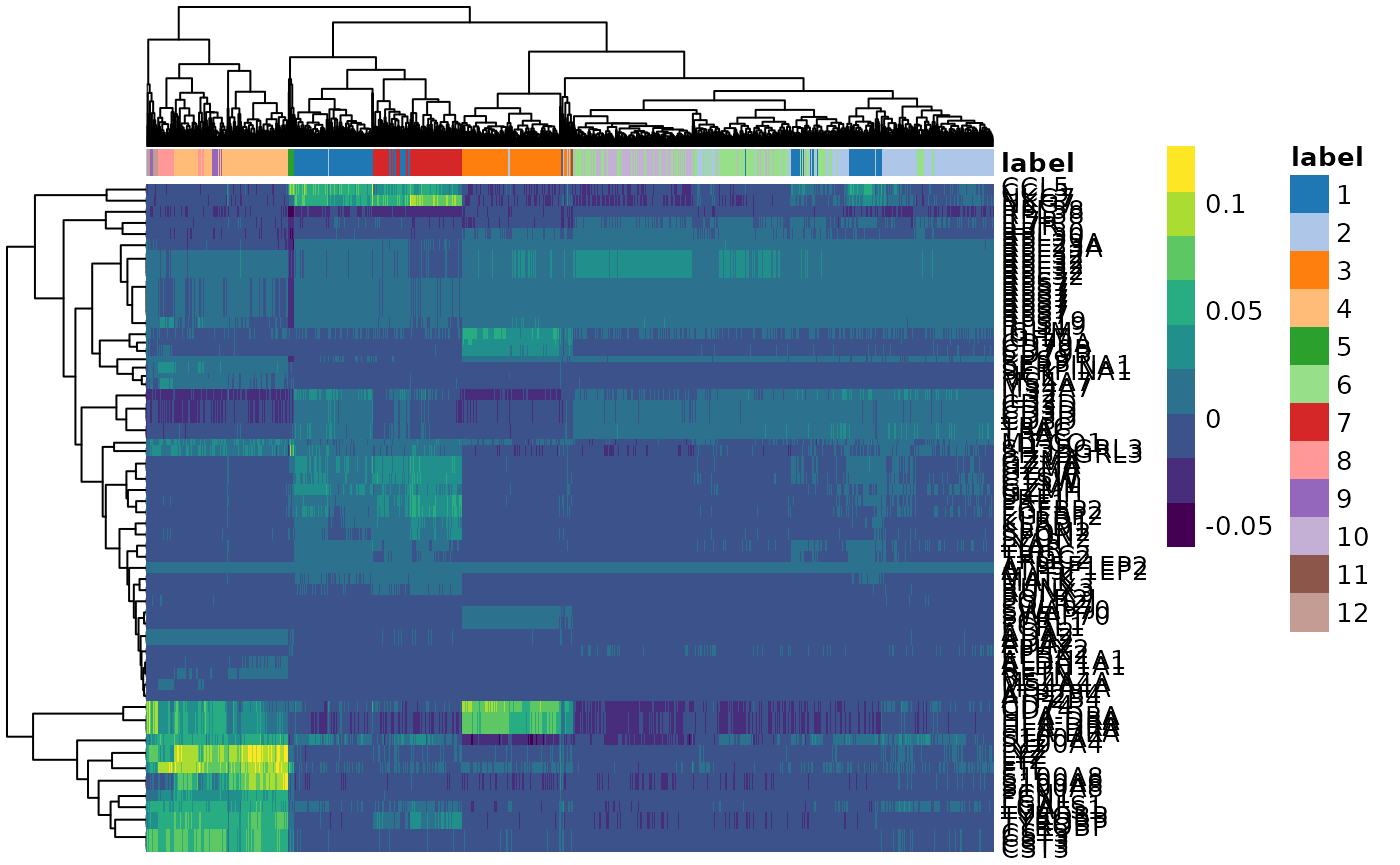
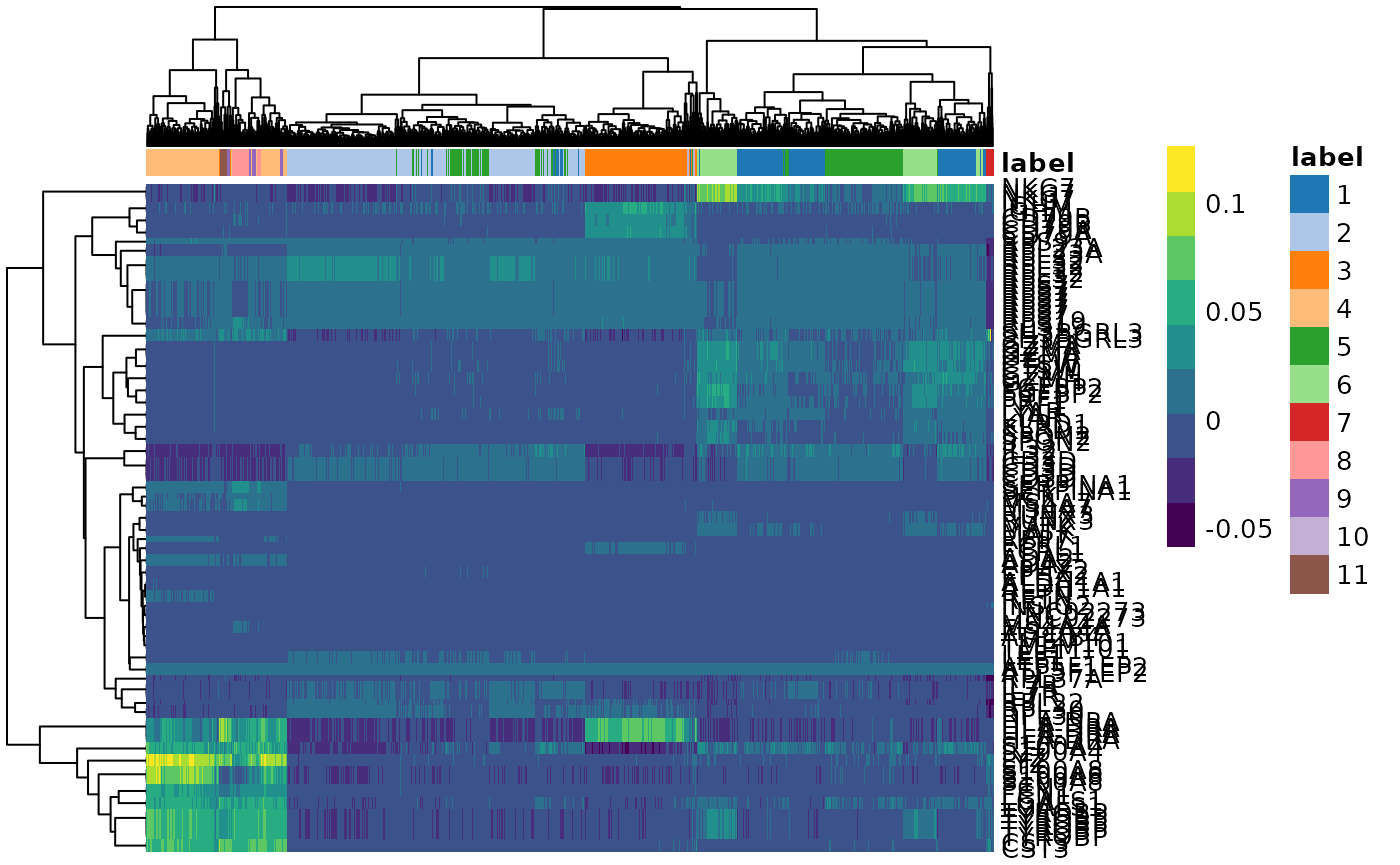
Deploying to gh-pages from  @ 49f070f1750935316fe01a08d94bfaefa396ba80 🚀

diff --git a/articles/tidytranscriptomics.html b/articles/tidytranscriptomics.html
@@ -103,15 +103,15 @@
 <div id="acknowledgements" class="section level3">
 <h3 class="hasAnchor">
 <a href="#acknowledgements" class="anchor"></a>Acknowledgements</h3>
-<p>Some of the material in Part 1 was adapted from an R for RNA sequencing workshop first run <a href="http://combine-australia.github.io/2016-05-11-RNAseq/">here</a>. Use of the airway dataset was inspired by the <a href="http://bioconductor.org/packages/devel/bioc/vignettes/DESeq2/inst/doc/DESeq2.html">DESeq2 vignette</a>.</p>
+<p>Some of the material in Part 1 was adapted from an R RNA sequencing workshop first run <a href="http://combine-australia.github.io/2016-05-11-RNAseq/">here</a>. The use of the airway dataset was inspired by the <a href="http://bioconductor.org/packages/devel/bioc/vignettes/DESeq2/inst/doc/DESeq2.html">DESeq2 vignette</a>.</p>
 </div>
 <div id="introduction" class="section level2">
 <h2 class="hasAnchor">
 <a href="#introduction" class="anchor"></a>Introduction</h2>
-<p>Measuring gene expression on a genome-wide scale has become common practice over the last two decades or so, with microarrays predominantly used pre-2008. With the advent of next generation sequencing technology in 2008, an increasing number of scientists use this technology to measure and understand changes in gene expression in often complex systems. As sequencing costs have decreased, using RNA sequencing to simultaneously measure the expression of tens of thousands of genes for multiple samples has never been easier. The cost of these experiments has now moved from generating the data to storing and analysing it.</p>
-<p>There are many steps involved in analysing an RNA sequencing dataset. Sequenced reads are aligned to a reference genome, then the number of reads mapped to each gene can be counted. This results in a table of counts, which is what we perform statistical analyses on in R. While mapping and counting are important and necessary tasks, today we will be starting from the count data and showing how differential expression analysis can be performed in a friendly way using the Bioconductor package, tidybulk.</p>
+<p>Measuring gene expression on a genome-wide scale has become common practice over the last two decades or so, with microarrays predominantly used pre-2008. With the advent of next-generation sequencing technology in 2008, an increasing number of scientists use this technology to measure and understand changes in gene expression in often complex systems. As sequencing costs have decreased, using RNA sequencing to simultaneously measure the expression of tens of thousands of genes for multiple samples has never been easier. The cost of these experiments has now moved from generating the data to storing and analysing it.</p>
+<p>There are many steps involved in analysing an RNA sequencing dataset. Sequenced reads are aligned to a reference genome, then the number of reads mapped to each gene can be counted. This results in a table of counts, which is what we perform statistical analyses on in R. While mapping and counting are important and necessary tasks, today, we will be starting from the count data and showing how differential expression analysis can be performed in a friendly way using the Bioconductor package, tidybulk.</p>
 <p>First, let’s load all the packages we will need to analyse the data.</p>
-<p><em>Note: you should load the <em>tidybulk</em> and <em>tidySummarizedExperiment</em> libraries after the tidyverse core packages for best integration.</em></p>
+<p><em>Note: you should load the tidybulk</em> and <em>tidySummarizedExperiment</em> libraries after the tidyverse core packages for best integration.</p>
 <div class="sourceCode" id="cb1"><pre class="downlit sourceCode r">
 <code class="sourceCode R"><span class="co"># dataset</span>
 <span class="kw"><a href="https://rdrr.io/r/base/library.html">library</a></span><span class="op">(</span><span class="va">airway</span><span class="op">)</span>
@@ -273,7 +273,7 @@
 <div id="setting-up-the-data" class="section level2">
 <h2 class="hasAnchor">
 <a href="#setting-up-the-data" class="anchor"></a>Setting up the data</h2>
-<p>We’ll set up the airway data for our RNA-seq analysis. We’ll create the column with shorter sample names and a column with gene symbols. We can get the gene symbols for these Ensembl gene ids using the Bioconductor annotation package for human, <code>org.Hs.eg.db</code>.</p>
+<p>We’ll set up the airway data for our RNA-seq analysis. We’ll create a column with shorter sample names and a column with gene symbols. We can get the gene symbols for these Ensembl gene ids using the Bioconductor annotation package for human, <code>org.Hs.eg.db</code>.</p>
 <div class="sourceCode" id="cb9"><pre class="downlit sourceCode r">
 <code class="sourceCode R"><span class="co"># setup data workflow</span>
 <span class="va">counts</span> <span class="op">&lt;-</span>
@@ -309,8 +309,8 @@
 <div id="filtering-lowly-transcribed-genes" class="section level2">
 <h2 class="hasAnchor">
 <a href="#filtering-lowly-transcribed-genes" class="anchor"></a>Filtering lowly transcribed genes</h2>
-<p>Genes with very low counts across all libraries provide little evidence for differential expression and they can interfere with some of the statistical approximations that are used later in the pipeline. They also add to the multiple testing burden when estimating false discovery rates, reducing power to detect differentially expressed genes. These genes should be filtered out prior to further analysis.</p>
-<p>We can perform the filtering using tidybulk <code>keep_abundant</code> or <code>identify_abundant</code>. These functions can use the <em>edgeR</em> <code>filterByExpr</code> function described in <span class="citation">(Law et al. 2016)</span> to automatically identify the genes with adequate abundance for differential expression testing. By default, this will keep genes with ~10 counts in a minimum number of samples, the number of the samples in the smallest group. In this dataset the smallest group size is four (as we have four dex-treated samples versus four untreated). Alternatively, we could use <code>identify_abundant</code> to identify which genes are abundant or not (TRUE/FALSE), rather than just keeping the abundant ones.</p>
+<p>Genes with very low counts across all libraries provide little evidence for differential expression and they can interfere with some of the statistical approximations that are used later in the pipeline. They also add to the multiple testing burden when estimating false discovery rates, reducing the power to detect differentially expressed genes. These genes should be filtered out prior to further analysis.</p>
+<p>We can perform the filtering using tidybulk <code>keep_abundant</code> or <code>identify_abundant</code>. These functions can use the <em>edgeR</em> <code>filterByExpr</code> function described in <span class="citation">(Law et al. 2016)</span> to automatically identify the genes with adequate abundance for differential expression testing. By default, this will keep genes with ~10 counts in a minimum number of samples, the number of the samples in the smallest group. In this dataset, the smallest group size is four (as we have four dex-treated samples versus four untreated). Alternatively, we could use <code>identify_abundant</code> to identify which genes are abundant or not (TRUE/FALSE), rather than just keeping the abundant ones.</p>
 <div class="sourceCode" id="cb10"><pre class="downlit sourceCode r">
 <code class="sourceCode R"><span class="co"># Filtering counts</span>
 <span class="va">counts_filtered</span> <span class="op">&lt;-</span> <span class="va">counts</span> <span class="op">%&gt;%</span> <span class="fu"><a href="https://rdrr.io/pkg/tidybulk/man/keep_abundant-methods.html">keep_abundant</a></span><span class="op">(</span>factor_of_interest <span class="op">=</span> <span class="va">dex</span><span class="op">)</span>
@@ -338,7 +338,7 @@
 <div id="scaling-counts-to-normalise" class="section level2">
 <h2 class="hasAnchor">
 <a href="#scaling-counts-to-normalise" class="anchor"></a>Scaling counts to normalise</h2>
-<p>Scaling of counts, normalisation, is performed to eliminate uninteresting differences between samples due to sequencing depth or composition. A more detailed explanation can be found <a href="https://hbctraining.github.io/DGE_workshop/lessons/02_DGE_count_normalization.html">here</a>. In the tidybulk package the function <code>scale_abundance</code> generates scaled counts, with scaling factors calculated on abundant (filtered) transcripts and applied to all transcripts. We can choose from different normalisation methods. Here we will use the default, edgeR’s trimmed mean of M values (TMM), <span class="citation">(Robinson and Oshlack 2010)</span>. TMM normalisation (and most scaling normalisation methods) scale relative to one sample.</p>
+<p>Scaling of counts (normalisation) is performed to eliminate uninteresting differences between samples due to sequencing depth or composition. A more detailed explanation can be found <a href="https://hbctraining.github.io/DGE_workshop/lessons/02_DGE_count_normalization.html">here</a>. In the tidybulk package, the function <code>scale_abundance</code> generates scaled counts, with scaling factors calculated on abundant (filtered) transcripts and applied to all transcripts. We can choose from different normalisation methods. Here we will use the default edgeR’s trimmed mean of M values (TMM), <span class="citation">(Robinson and Oshlack 2010)</span>. TMM normalisation (and most scaling normalisation methods) scale relative to one sample.</p>
 <div class="sourceCode" id="cb11"><pre class="downlit sourceCode r">
 <code class="sourceCode R"><span class="co"># Scaling counts</span>
 <span class="va">counts_scaled</span> <span class="op">&lt;-</span> <span class="va">counts_filtered</span> <span class="op">%&gt;%</span> <span class="fu"><a href="https://rdrr.io/pkg/tidybulk/man/scale_abundance-methods.html">scale_abundance</a></span><span class="op">(</span><span class="op">)</span>
@@ -363,8 +363,8 @@
 <span class="co">#&gt; #   Experiment &lt;fct&gt;, Sample &lt;fct&gt;, BioSample &lt;fct&gt;, sample_name &lt;chr&gt;,</span>
 <span class="co">#&gt; #   TMM &lt;dbl&gt;, multiplier &lt;dbl&gt;, symbol &lt;chr&gt;, .abundant &lt;lgl&gt;,</span>
 <span class="co">#&gt; #   coordinate &lt;list&gt;</span></code></pre></div>
-<p>After we run <code>scale_abundance</code> we should see some columns have been added at the end. The <code>counts_scaled</code> column contains the scaled counts.</p>
-<p>We can visualise the difference of abundance densities before and after scaling. As tidybulk output is compatible with tidyverse, we can simply pipe it into standard tidyverse functions such as <code>filter</code>, <code>pivot_longer</code> and <code>ggplot</code>. We can also take advantage of ggplot’s <code>facet_wrap</code> to easily create multiple plots.</p>
+<p>After we run, we should see some columns have been added at the end. The <code>counts_scaled</code> column contains the scaled counts.</p>
+<p>We can visualise the difference in abundance densities before and after scaling. As tidybulk output is compatible with tidyverse, we can simply pipe it into standard tidyverse functions such as <code>filter</code>, <code>pivot_longer</code> and <code>ggplot</code>. We can also take advantage of ggplot’s <code>facet_wrap</code> to easily create multiple plots.</p>
 <div class="sourceCode" id="cb12"><pre class="downlit sourceCode r">
 <code class="sourceCode R"><span class="va">counts_scaled</span> <span class="op">%&gt;%</span>
 
@@ -379,7 +379,7 @@
   <span class="va">custom_theme</span>
 <span class="co">#&gt; tidySummarizedExperiment says: A data frame is returned for independent data analysis.</span></code></pre></div>
 <p><img src="tidytranscriptomics_files/figure-html/unnamed-chunk-15-1.png" width="70%"></p>
-<p>In this dataset the distributions of the counts are not very different to each other before scaling but scaling does make the distributions more similar. If we saw a sample with a very different distribution we may need to investigate it.</p>
+<p>In this dataset, the distributions of the counts are not very different to each other before scaling, but scaling does make the distributions more similar. If we saw a sample with a very different distribution, we may need to investigate it.</p>
 <p>As tidybulk smoothly integrates with ggplot2 and other tidyverse packages it can save on typing and make plots easier to generate. Compare the code for creating density plots with tidybulk versus standard base R below (standard code adapted from <span class="citation">(Law et al. 2016)</span>).</p>
 <p><strong>tidybulk</strong></p>
 <div class="sourceCode" id="cb13"><pre class="downlit sourceCode r">
@@ -450,7 +450,7 @@
 <span class="co">#&gt; 1                  0.353     1</span>
 <span class="co">#&gt; 2                  0.312     2</span>
 <span class="co">#&gt; tidybulk says: to access the raw results do `attr(..., "internals")$PCA`</span></code></pre></div>
-<p>This joins the result to the counts object.</p>
+<p>This joins the result to the counts’ object.</p>
 <div class="sourceCode" id="cb16"><pre class="downlit sourceCode r">
 <code class="sourceCode R"><span class="co"># Take a look</span>
 <span class="va">counts_scal_PCA</span>
@@ -499,7 +499,7 @@
   <span class="fu"><a href="https://rdrr.io/pkg/ggrepel/man/geom_text_repel.html">geom_text_repel</a></span><span class="op">(</span><span class="fu"><a href="https://ggplot2.tidyverse.org/reference/aes.html">aes</a></span><span class="op">(</span>label <span class="op">=</span> <span class="va">sample_name</span><span class="op">)</span>, show.legend <span class="op">=</span> <span class="cn">FALSE</span><span class="op">)</span> <span class="op">+</span>
   <span class="va">custom_theme</span></code></pre></div>
 <p><img src="tidytranscriptomics_files/figure-html/unnamed-chunk-21-1.png" width="70%"></p>
-<p>The samples separate by treatment on PC1 which is what we hope to see. PC2 separates the N080611 cell line from the other samples, indicating a greater difference between that cell line and the others.</p>
+<p>The samples group by treatment on PC1 which is what we hope to see. PC2 separates the N080611 cell line from the other samples, indicating a greater difference between that cell line and the others.</p>
 </div>
 <div id="hierarchical-clustering-with-heatmaps" class="section level3">
 <h3 class="hasAnchor">
@@ -530,7 +530,7 @@
 <span class="co">#&gt; = .data@data %&gt;% : tidyHeatmap says: nested/list column are present in your data</span>
 <span class="co">#&gt; frame and have been dropped as their unicity cannot be identified by dplyr.</span></code></pre></div>
 <p><img src="tidytranscriptomics_files/figure-html/unnamed-chunk-22-1.png" width="70%"></p>
-<p>In the heatmap we can see the samples cluster into two groups, treated and untreated, for three of the cell lines, and the cell line (N080611) again is further away from the others.</p>
+<p>In the heatmap, we can see the samples cluster into two groups, treated and untreated, for three of the cell lines, and the cell line (N080611) again is further away from the others.</p>
 <p>Tidybulk enables a simplified way of generating a clustered heatmap of variable genes. Compare the code below for tidybulk versus a base R method.</p>
 <p><strong>base R using edgeR</strong></p>
 <div class="sourceCode" id="cb20"><pre class="downlit sourceCode r">
@@ -554,8 +554,8 @@
 <div id="differential-expression" class="section level2">
 <h2 class="hasAnchor">
 <a href="#differential-expression" class="anchor"></a>Differential expression</h2>
-<p><em>tidybulk</em> integrates several popular methods for differential transcript abundance testing: the edgeR quasi-likelihood <span class="citation">(Chen, Lun, and Smyth 2016)</span> (tidybulk default method), edgeR likelihood ratio <span class="citation">(McCarthy, Chen, and Smyth 2012)</span>, limma-voom <span class="citation">(Law et al. 2014)</span> and DESeq2 <span class="citation">(Love, Huber, and Anders 2014)</span>. A common question researchers have is which method to choose. With tidybulk we can easily run multiple methods and compare.</p>
-<p>We give <code>test_differential_abundance</code> our tidybulk counts object and a formula, specifying the column that contains our groups to be compared. If all our samples were from the same cell line, and there were no additional factors contributing variance such as batch differences, we could use the formula <code>~ dex</code>. However, each treated and untreated sample is from a different cell line so we add the cell line as an additional factor <code>~ dex + cell</code>.</p>
+<p><em>tidybulk</em> integrates several popular methods for differential transcript abundance testing: the edgeR quasi-likelihood <span class="citation">(Chen, Lun, and Smyth 2016)</span> (tidybulk default method), edgeR likelihood ratio <span class="citation">(McCarthy, Chen, and Smyth 2012)</span>, limma-voom <span class="citation">(Law et al. 2014)</span> and DESeq2 <span class="citation">(Love, Huber, and Anders 2014)</span>. A common question researchers have is which method to choose. With tidybulk, we can easily run multiple methods and compare.</p>
+<p>We give <code>test_differential_abundance</code> our tidybulk counts object and a formula, specifying the column that contains our groups to be compared. If all our samples were from the same cell line, and there were no additional factors contributing variance, such as batch differences, we could use the formula <code>~ dex</code>. However, each treated and untreated sample is from a different cell line, so we add the cell line as an additional factor <code>~ dex + cell</code>.</p>
 <div class="sourceCode" id="cb21"><pre class="downlit sourceCode r">
 <code class="sourceCode R"><span class="va">de_all</span> <span class="op">&lt;-</span>
 
@@ -664,7 +664,7 @@
 <div id="volcano-plots" class="section level2">
 <h2 class="hasAnchor">
 <a href="#volcano-plots" class="anchor"></a>Volcano plots</h2>
-<p>Volcano plots are a useful genome-wide plot for checking that the analysis looks good. Volcano plots enable us to visualise the significance of change (p-value) versus the fold change (logFC). Highly significant genes are towards the top of the plot. We can also colour significant genes e.g. genes with false-discovery rate &lt; 0.05. In order to decide which genes are differentially expressed, we usually take a cut-off of 0.05 on the FDR (or adjusted P value), NOT the raw p-value. This is because we are testing many genes (multiple testing), and the chances of finding differentially expressed genes is very high when you do that many tests. Hence we need to control the false discovery rate, which is the adjusted p-value column in the results table. What this means is that if 100 genes are significant at a 5% false discovery rate, we are willing to accept that 5 will be false positives.</p>
+<p>Volcano plots are a useful genome-wide tool for checking that the analysis looks good. Volcano plots enable us to visualise the significance of change (p-value) versus the fold change (logFC). Highly significant genes are towards the top of the plot. We can also colour significant genes, e.g. genes with false-discovery rate &lt; 0.05. To decide which genes are differentially expressed, we usually take a cut-off of 0.05 on the FDR (or adjusted P-value), NOT the raw p-value. This is because we are testing many genes (multiple testing), and the chances of finding differentially expressed genes are very high when you do that many tests. Hence we need to control the false discovery rate, the adjusted p-value column in the results table. That is, if 100 genes are significant at a 5% false discovery rate, we are willing to accept that 5 will be false positives.</p>
 <div class="sourceCode" id="cb25"><pre class="downlit sourceCode r">
 <code class="sourceCode R"><span class="co"># volcano plot, minimal</span>
 <span class="va">counts_de</span> <span class="op">%&gt;%</span>
@@ -772,7 +772,7 @@
 <h2 class="hasAnchor">
 <a href="#cell-type-composition-analysis" class="anchor"></a>Cell type composition analysis</h2>
 <p>If we are sequencing tissue samples, we may want to know what cell types are present and if there are differences in expression between them. <code>tidybulk</code> has a <code>deconvolve_cellularity</code> function that can help us do this.</p>
-<p>For this example we will use a subset of the breast cancer dataset from <a href="https://www.cancer.gov/tcga">The Cancer Genome Atlas (TCGA)</a>.</p>
+<p>For this example, we will use a subset of the breast cancer dataset from <a href="https://www.cancer.gov/tcga">The Cancer Genome Atlas (TCGA)</a>.</p>
 <div class="sourceCode" id="cb29"><pre class="downlit sourceCode r">
 <code class="sourceCode R"><span class="va">BRCA</span> <span class="op">&lt;-</span> <span class="fu">bioc2021tidytranscriptomics</span><span class="fu">::</span><span class="va"><a href="../reference/BRCA.html">BRCA</a></span> 
 <span class="va">BRCA</span>
@@ -874,15 +874,15 @@
 <li>
 <code>tidybulk</code> allows streamlined multi-method analyses</li>
 <li>
-<code>tidybulk</code> allow easy analyses of cell type composition</li>
+<code>tidybulk</code> allow easy analyses of cell-type composition</li>
 </ul>
 </div>
 </div>
 <div id="part-2-single-cell-rna-seq-with-tidysinglecellexperiment" class="section level1">
 <h1 class="hasAnchor">
 <a href="#part-2-single-cell-rna-seq-with-tidysinglecellexperiment" class="anchor"></a>Part 2 Single-cell RNA-seq with tidySingleCellExperiment</h1>
-<p>A typical scRNA-seq workflow is shown in <a href="https://stemangiola.github.io/bioc2021_tidytranscriptomics/articles/background.html#differences-between-bulk-and-single-cell-rna-sequencing-1">Background information</a>. We don’t have time in this workshop to go into depth on each step but you can read more about scRNA-seq workflows in the online book <a href="http://bioconductor.org/books/release/OSCA/index.html">Orchestrating Single-Cell Analysis with Bioconductor</a>.</p>
-<p>In Part 1 we showed how we can study the cell-type composition of a biological sample using bulk RNA sequencing. Single cell sequencing enables a more direct estimation of cell-type composition and gives greater resolution. For bulk RNA sequencing we need to infer the cell types using the abundance of transcripts in the whole sample, with single-cell RNA sequencing we can directly measure the transcripts in each cell and then classify the cells into cell types.</p>
+<p>A typical single-cell RNA sequencing workflow is shown in <a href="https://stemangiola.github.io/bioc2021_tidytranscriptomics/articles/background.html#differences-between-bulk-and-single-cell-rna-sequencing-1">Background information</a>. We don’t have time in this workshop to go into depth on each step, but you can read more about scRNA-seq workflows in the online book <a href="http://bioconductor.org/books/release/OSCA/index.html">Orchestrating Single-Cell Analysis with Bioconductor</a>.</p>
+<p>In Part 1, we showed how we can study the cell-type composition of a biological sample using bulk RNA sequencing. Single-cell sequencing enables a more direct estimation of cell-type composition and gives a greater resolution. For bulk RNA sequencing, we need to infer the cell types using the abundance of transcripts in the whole sample. With single-cell RNA sequencing, we can directly measure the transcripts in each cell and then classify the cells into cell types.</p>
 <div class="sourceCode" id="cb33"><pre class="downlit sourceCode r">
 <code class="sourceCode R"><span class="co"># load packages</span>
 <span class="kw"><a href="https://rdrr.io/r/base/library.html">library</a></span><span class="op">(</span><span class="va"><a href="https://ggplot2.tidyverse.org">ggplot2</a></span><span class="op">)</span>
@@ -900,9 +900,9 @@
 <div id="introduction-to-tidysinglecellexperiment" class="section level2">
 <h2 class="hasAnchor">
 <a href="#introduction-to-tidysinglecellexperiment" class="anchor"></a>Introduction to tidySingleCellExperiment</h2>
-<p>The single-cell RNA sequencing data used here is 3000 cells in total, subsetted from 20 samples from 10 peripheral blood mononuclear cell (pbmc) datasets. The datasets are from GSE115189/SRR7244582 <span class="citation">(Freytag et al. 2018)</span>, SRR11038995 [<span class="citation">Cai et al. (2020)</span>, SCP345 (singlecell.broadinstitute.org), SCP424 <span class="citation">(Ding et al. 2020)</span>, SCP591 <span class="citation">(Karagiannis et al. 2020)</span> and 10x-derived 6K and 8K datasets (support.10xgenomics.com/). The data is in <a href="https://www.bioconductor.org/packages/release/bioc/vignettes/SingleCellExperiment/inst/doc/intro.html">SingleCellExperiment</a> format. SingleCellExperiment is a very popular container of single cell RNA sequencing data.</p>
-<p>Similar to what we saw with tidySummarizedExperiment, <code>tidySingleCellExperiment</code> package enables any <em>SingleCellExperiment</em> object to be displayed and manipulated according to tidy data principles, without affecting any <em>SingleCellExperiment</em> behaviour.</p>
-<p>If we load the <em>tidySingleCellExperiment</em> package and then view the pbmc data it displays as a tibble.</p>
+<p>The single-cell RNA sequencing data used here is 3000 cells in total, subsetted from 20 samples from 10 peripheral blood mononuclear cell (PBMC) datasets. The datasets are from GSE115189/SRR7244582 <span class="citation">(Freytag et al. 2018)</span>, SRR11038995 [<span class="citation">Cai et al. (2020)</span>, SCP345 (singlecell.broadinstitute.org), SCP424 <span class="citation">(Ding et al. 2020)</span>, SCP591 <span class="citation">(Karagiannis et al. 2020)</span> and 10x-derived 6K and 8K datasets (support.10xgenomics.com/). The data is in <a href="https://www.bioconductor.org/packages/release/bioc/vignettes/SingleCellExperiment/inst/doc/intro.html">SingleCellExperiment</a> format. SingleCellExperiment is a very popular container of single-cell RNA sequencing data.</p>
+<p>Similar to what we saw with tidySummarizedExperiment, <code>tidySingleCellExperiment</code> package enables any <em>SingleCellExperiment</em> object to be displayed and manipulated according to tidy data principles without affecting any <em>SingleCellExperiment</em> behaviour.</p>
+<p>If we load the <em>tidySingleCellExperiment</em> package and then view the PBMC data, it displays as a tibble.</p>
 <div class="sourceCode" id="cb34"><pre class="downlit sourceCode r">
 <code class="sourceCode R"><span class="co"># load pbmc single cell RNA sequencing data</span>
 <span class="va">pbmc</span> <span class="op">&lt;-</span> <span class="fu">bioc2021tidytranscriptomics</span><span class="fu">::</span><span class="va"><a href="../reference/pbmc.html">pbmc</a></span>
@@ -933,7 +933,7 @@
 <div id="setting-up-the-data-1" class="section level2">
 <h2 class="hasAnchor">
 <a href="#setting-up-the-data-1" class="anchor"></a>Setting up the data</h2>
-<p>In this case we want to polish an annotation column. We will extract the sample, dataset and group information from the file name column into separate columns.</p>
+<p>In this case, we want to polish an annotation column. We will extract the sample, dataset and group information from the file name column into separate columns.</p>
 <div class="sourceCode" id="cb36"><pre class="downlit sourceCode r">
 <code class="sourceCode R"><span class="co"># First take a look at the file column</span>
 <span class="va">pbmc</span> <span class="op">%&gt;%</span> <span class="fu"><a href="https://rdrr.io/pkg/tidySingleCellExperiment/man/dplyr-methods.html">select</a></span><span class="op">(</span><span class="va">file</span><span class="op">)</span>
@@ -984,15 +984,15 @@
 <div id="quality-control" class="section level2">
 <h2 class="hasAnchor">
 <a href="#quality-control" class="anchor"></a>Quality control</h2>
-<p>A key quality control step performed in single cell analysis is assessment of the proportion of mitochondrial transcripts. A high mitochondrial count can indicate the cell is dead or dying and is thus poor quality and should be filtered out.</p>
+<p>A key quality control step performed in single-cell analyses is the assessment of the proportion of mitochondrial transcripts. A high mitochondrial count indicates cell death, and it is useful for filtering cells in a dying state.</p>
 <div id="nesting" class="section level3">
 <h3 class="hasAnchor">
 <a href="#nesting" class="anchor"></a>Nesting</h3>
-<p>A powerful tool tidySingleCellExperiment enables us to use with our single-cell data is tidyverse’s <a href="https://rstudio-education.github.io/tidyverse-cookbook/transform-tables.html#nest-a-data-frame">nest</a>. Nesting allows us to easily perform independent analyses on subsets of the data. For example, our data contains 10 single-cell datasets from different sources, we can nest by dataset and analyse the mitochondrial content for each.</p>
+<p>A powerful tool tidySingleCellExperiment enables us to use with our single-cell data is tidyverse’s <a href="https://rstudio-education.github.io/tidyverse-cookbook/transform-tables.html#nest-a-data-frame">nest</a>. Nesting allows us to perform independent analyses on subsets of the data easily. For example, our data contains 10 single-cell datasets from different sources; we can nest by dataset and analyse the mitochondrial content for each.</p>
 <p>To demonstrate the power of nesting we’ll first show the mitochondrial analysis for one of the 10 datasets.</p>
 <div class="sourceCode" id="cb38"><pre class="downlit sourceCode r">
 <code class="sourceCode R"><span class="va">one_dataset</span> <span class="op">&lt;-</span> <span class="va">pbmc</span> <span class="op">%&gt;%</span> <span class="fu"><a href="https://rdrr.io/pkg/tidySingleCellExperiment/man/dplyr-methods.html">filter</a></span><span class="op">(</span><span class="va">dataset</span> <span class="op">==</span><span class="st">"GSE115189"</span><span class="op">)</span></code></pre></div>
-<p>We get the chromosomal location for each gene in the dataset so we can identify the mitochondrial genes. We’ll get a warning that some of the ids don’t find a match but it should be just a small proportion.</p>
+<p>We get the chromosomal location for each gene in the dataset so we can identify the mitochondrial genes. We’ll get a warning that some of the ids don’t find a match, but it should be just a small proportion.</p>
 <div class="sourceCode" id="cb39"><pre class="downlit sourceCode r">
 <code class="sourceCode R"><span class="va">location</span> <span class="op">&lt;-</span> <span class="fu">mapIds</span><span class="op">(</span>
   <span class="va">EnsDb.Hsapiens.v86</span>,
@@ -1080,7 +1080,7 @@
 <span class="co">#&gt; #   sum &lt;dbl&gt;, detected &lt;int&gt;, subsets_Mito_sum &lt;dbl&gt;,</span>
 <span class="co">#&gt; #   subsets_Mito_detected &lt;int&gt;, subsets_Mito_percent &lt;dbl&gt;, total &lt;dbl&gt;,</span>
 <span class="co">#&gt; #   high_mitochondrion &lt;otlr.flt&gt;</span></code></pre></div>
-<p>The steps above perform the mitochondrial QC analysis for one dataset. To analyse all 10 datasets we could repeat the steps for each dataset or create a function and apply it to each dataset. However, a more efficient way is to use nesting. We can nest our data by dataset.</p>
+<p>The steps above perform the mitochondrial QC analysis for one dataset. To analyse all 10 datasets, we could repeat the steps for each dataset or create a function and apply it to each dataset. However, a more efficient way is to use nesting. We can nest our data by dataset.</p>
 <p><img src="../inst/vignettes/nesting.png" width="600px"></p>
 <div class="sourceCode" id="cb43"><pre class="downlit sourceCode r">
 <code class="sourceCode R"><span class="va">pbmc_nested</span> <span class="op">&lt;-</span> <span class="va">pbmc</span> <span class="op">%&gt;%</span> 
@@ -1212,7 +1212,7 @@
   <span class="fu"><a href="https://ggplot2.tidyverse.org/reference/theme.html">theme</a></span><span class="op">(</span>axis.text.x <span class="op">=</span> <span class="fu"><a href="https://ggplot2.tidyverse.org/reference/element.html">element_text</a></span><span class="op">(</span>angle <span class="op">=</span> <span class="fl">50</span>, hjust <span class="op">=</span> <span class="fl">1</span>, vjust <span class="op">=</span> <span class="fl">1</span><span class="op">)</span><span class="op">)</span>
 <span class="co">#&gt; tidySingleCellExperiment says: A data frame is returned for independent data analysis.</span></code></pre></div>
 <p><img src="tidytranscriptomics_files/figure-html/unnamed-chunk-51-1.png" width="700"></p>
-<p>In the faceted plot, detected is number of genes in each of the 10 datasets, sum is total counts.</p>
+<p>In the faceted plot, “detected” is the number of genes in each of the 10 datasets, “sum” is the total counts.</p>
 <p>We then proceed to filter out cells with high mitochondrial content.</p>
 <div class="sourceCode" id="cb48"><pre class="downlit sourceCode r">
 <code class="sourceCode R"><span class="va">pbmc</span> <span class="op">&lt;-</span> <span class="va">pbmc</span> <span class="op">%&gt;%</span> <span class="fu"><a href="https://rdrr.io/pkg/tidySingleCellExperiment/man/dplyr-methods.html">filter</a></span><span class="op">(</span><span class="op">!</span><span class="va">high_mitochondrion</span><span class="op">)</span></code></pre></div>
@@ -1258,36 +1258,35 @@
 <span class="co">#&gt; [90m# Features=51958 | Assays=reconstructed[39m</span>
 <span class="co">#&gt;    cell       label batch corrected1 corrected2 corrected3 corrected4 corrected5</span>
 <span class="co">#&gt;    &lt;chr&gt;      &lt;fct&gt; &lt;int&gt;      &lt;dbl&gt;      &lt;dbl&gt;      &lt;dbl&gt;      &lt;dbl&gt;      &lt;dbl&gt;</span>
-<span class="co">#&gt;  1 CCAGTCACA… 4         1    0.0643      0.334     -0.0725    -0.0560   -0.0739 </span>
-<span class="co">#&gt;  2 ATGAGCACA… 6         1    0.178      -0.0166    -0.122     -0.122     0.0233 </span>
-<span class="co">#&gt;  3 TATGAATGG… 7         1    0.0603      0.0357     0.127     -0.293     0.0128 </span>
-<span class="co">#&gt;  4 CATATAGAC… 12        1    0.0759      0.282     -0.121     -0.0545   -0.00286</span>
+<span class="co">#&gt;  1 CCAGTCACA… 4         1    0.0644      0.334     -0.0725    -0.0560   -0.0739 </span>
+<span class="co">#&gt;  2 ATGAGCACA… 2         1    0.178      -0.0167    -0.122     -0.122     0.0233 </span>
+<span class="co">#&gt;  3 TATGAATGG… 6         1    0.0603      0.0357     0.127     -0.293     0.0128 </span>
+<span class="co">#&gt;  4 CATATAGAC… 11        1    0.0760      0.282     -0.121     -0.0546   -0.00285</span>
 <span class="co">#&gt;  5 GAGGCAGAC… 1         1    0.0757      0.0424     0.0977    -0.259     0.0248 </span>
-<span class="co">#&gt;  6 AGCTGCCTT… 2         1    0.117       0.0242    -0.0729    -0.159     0.0170 </span>
-<span class="co">#&gt;  7 TGATTAGAT… 3         1    0.146       0.0752    -0.143     -0.0488    0.0915 </span>
+<span class="co">#&gt;  6 AGCTGCCTT… 5         1    0.117       0.0242    -0.0729    -0.159     0.0170 </span>
+<span class="co">#&gt;  7 TGATTAGAT… 3         1    0.146       0.0752    -0.143     -0.0488    0.0916 </span>
 <span class="co">#&gt;  8 ACGAAGCTC… 3         1    0.119       0.108     -0.127     -0.0505    0.0624 </span>
-<span class="co">#&gt;  9 CGGCATCTT… 4         1    0.00940     0.407     -0.0466    -0.0803   -0.0522 </span>
-<span class="co">#&gt; 10 ATAGCGTGC… 4         1    0.0561      0.367     -0.105     -0.0589   -0.0610 </span>
+<span class="co">#&gt;  9 CGGCATCTT… 4         1    0.00946     0.407     -0.0466    -0.0803   -0.0522 </span>
+<span class="co">#&gt; 10 ATAGCGTGC… 4         1    0.0561      0.367     -0.105     -0.0589   -0.0609 </span>
 <span class="co">#&gt; # … with 2,889 more rows</span></code></pre></div>
 <p>Thanks to tidySingleCellExperiment we can interrogate the object with tidyverse commands and use <code>count</code> to count the number of cells in each cluster.</p>
 <div class="sourceCode" id="cb51"><pre class="downlit sourceCode r">
 <code class="sourceCode R"><span class="va">pbmc</span> <span class="op">%&gt;%</span> <span class="fu"><a href="https://rdrr.io/pkg/tidySingleCellExperiment/man/count.html">count</a></span><span class="op">(</span><span class="va">label</span><span class="op">)</span>
 <span class="co">#&gt; tidySingleCellExperiment says: A data frame is returned for independent data analysis.</span>
-<span class="co">#&gt; # A tibble: 12 x 2</span>
+<span class="co">#&gt; # A tibble: 11 x 2</span>
 <span class="co">#&gt;    label     n</span>
 <span class="co">#&gt;    &lt;fct&gt; &lt;int&gt;</span>
-<span class="co">#&gt;  1 1       480</span>
-<span class="co">#&gt;  2 2       522</span>
-<span class="co">#&gt;  3 3       351</span>
+<span class="co">#&gt;  1 1       460</span>
+<span class="co">#&gt;  2 2       781</span>
+<span class="co">#&gt;  3 3       367</span>
 <span class="co">#&gt;  4 4       339</span>
-<span class="co">#&gt;  5 5        21</span>
-<span class="co">#&gt;  6 6       477</span>
-<span class="co">#&gt;  7 7       256</span>
+<span class="co">#&gt;  5 5       500</span>
+<span class="co">#&gt;  6 6       276</span>
+<span class="co">#&gt;  7 7        21</span>
 <span class="co">#&gt;  8 8        74</span>
 <span class="co">#&gt;  9 9        41</span>
-<span class="co">#&gt; 10 10      298</span>
-<span class="co">#&gt; 11 11       14</span>
-<span class="co">#&gt; 12 12       26</span></code></pre></div>
+<span class="co">#&gt; 10 10       14</span>
+<span class="co">#&gt; 11 11       26</span></code></pre></div>
 </div>
 <div id="reduce-dimensions" class="section level2">
 <h2 class="hasAnchor">
@@ -1368,21 +1367,20 @@
   <span class="fu"><a href="https://rdrr.io/pkg/tidySingleCellExperiment/man/dplyr-methods.html">select</a></span><span class="op">(</span><span class="va">label</span>, <span class="va">first.labels</span><span class="op">)</span>
 
 <span class="va">cell_type</span>
-<span class="co">#&gt; # A tibble: 12 x 2</span>
+<span class="co">#&gt; # A tibble: 11 x 2</span>
 <span class="co">#&gt;    label first.labels   </span>
 <span class="co">#&gt;    &lt;chr&gt; &lt;chr&gt;          </span>
 <span class="co">#&gt;  1 1     NK cells       </span>
-<span class="co">#&gt;  2 2     Fibroblasts    </span>
+<span class="co">#&gt;  2 2     Skeletal muscle</span>
 <span class="co">#&gt;  3 3     B-cells        </span>
 <span class="co">#&gt;  4 4     Monocytes      </span>
-<span class="co">#&gt;  5 5     Smooth muscle  </span>
-<span class="co">#&gt;  6 6     Skeletal muscle</span>
-<span class="co">#&gt;  7 7     NK cells       </span>
+<span class="co">#&gt;  5 5     Fibroblasts    </span>
+<span class="co">#&gt;  6 6     NK cells       </span>
+<span class="co">#&gt;  7 7     Smooth muscle  </span>
 <span class="co">#&gt;  8 8     Neutrophils    </span>
 <span class="co">#&gt;  9 9     Macrophages    </span>
-<span class="co">#&gt; 10 10    Skeletal muscle</span>
-<span class="co">#&gt; 11 11    B-cells        </span>
-<span class="co">#&gt; 12 12    Monocytes</span></code></pre></div>
+<span class="co">#&gt; 10 10    B-cells        </span>
+<span class="co">#&gt; 11 11    Monocytes</span></code></pre></div>
 <p>We join the cell type information to our pbmc data.</p>
 <div class="sourceCode" id="cb56"><pre class="downlit sourceCode r">
 <code class="sourceCode R"><span class="co"># Join cell type info</span>
@@ -1396,15 +1394,15 @@
 <span class="co">#&gt; [90m# Features=51958 | Assays=reconstructed[39m</span>
 <span class="co">#&gt;    cell  first.labels batch label corrected1 corrected2 corrected3 corrected4</span>
 <span class="co">#&gt;    &lt;chr&gt; &lt;chr&gt;        &lt;int&gt; &lt;chr&gt;      &lt;dbl&gt;      &lt;dbl&gt;      &lt;dbl&gt;      &lt;dbl&gt;</span>
-<span class="co">#&gt;  1 CCAG… Monocytes        1 4        0.0643      0.334     -0.0725    -0.0560</span>
-<span class="co">#&gt;  2 ATGA… Skeletal mu…     1 6        0.178      -0.0166    -0.122     -0.122 </span>
-<span class="co">#&gt;  3 TATG… NK cells         1 7        0.0603      0.0357     0.127     -0.293 </span>
-<span class="co">#&gt;  4 CATA… Monocytes        1 12       0.0759      0.282     -0.121     -0.0545</span>
+<span class="co">#&gt;  1 CCAG… Monocytes        1 4        0.0644      0.334     -0.0725    -0.0560</span>
+<span class="co">#&gt;  2 ATGA… Skeletal mu…     1 2        0.178      -0.0167    -0.122     -0.122 </span>
+<span class="co">#&gt;  3 TATG… NK cells         1 6        0.0603      0.0357     0.127     -0.293 </span>
+<span class="co">#&gt;  4 CATA… Monocytes        1 11       0.0760      0.282     -0.121     -0.0546</span>
 <span class="co">#&gt;  5 GAGG… NK cells         1 1        0.0757      0.0424     0.0977    -0.259 </span>
-<span class="co">#&gt;  6 AGCT… Fibroblasts      1 2        0.117       0.0242    -0.0729    -0.159 </span>
+<span class="co">#&gt;  6 AGCT… Fibroblasts      1 5        0.117       0.0242    -0.0729    -0.159 </span>
 <span class="co">#&gt;  7 TGAT… B-cells          1 3        0.146       0.0752    -0.143     -0.0488</span>
 <span class="co">#&gt;  8 ACGA… B-cells          1 3        0.119       0.108     -0.127     -0.0505</span>
-<span class="co">#&gt;  9 CGGC… Monocytes        1 4        0.00940     0.407     -0.0466    -0.0803</span>
+<span class="co">#&gt;  9 CGGC… Monocytes        1 4        0.00946     0.407     -0.0466    -0.0803</span>
 <span class="co">#&gt; 10 ATAG… Monocytes        1 4        0.0561      0.367     -0.105     -0.0589</span>
 <span class="co">#&gt; # … with 2,889 more rows, and 4 more variables: corrected5 &lt;dbl&gt;, UMAP1 &lt;dbl&gt;,</span>
 <span class="co">#&gt; #   UMAP2 &lt;dbl&gt;, UMAP3 &lt;dbl&gt;</span></code></pre></div>
@@ -1412,21 +1410,20 @@
 <div class="sourceCode" id="cb57"><pre class="downlit sourceCode r">
 <code class="sourceCode R"><span class="va">pbmc</span> <span class="op">%&gt;%</span> <span class="fu"><a href="https://rdrr.io/pkg/tidySingleCellExperiment/man/count.html">count</a></span><span class="op">(</span><span class="va">label</span>, <span class="va">first.labels</span><span class="op">)</span>
 <span class="co">#&gt; tidySingleCellExperiment says: A data frame is returned for independent data analysis.</span>
-<span class="co">#&gt; # A tibble: 12 x 3</span>
+<span class="co">#&gt; # A tibble: 11 x 3</span>
 <span class="co">#&gt;    label first.labels        n</span>
 <span class="co">#&gt;    &lt;chr&gt; &lt;chr&gt;           &lt;int&gt;</span>
-<span class="co">#&gt;  1 1     NK cells          480</span>
-<span class="co">#&gt;  2 10    Skeletal muscle   298</span>
-<span class="co">#&gt;  3 11    B-cells            14</span>
-<span class="co">#&gt;  4 12    Monocytes          26</span>
-<span class="co">#&gt;  5 2     Fibroblasts       522</span>
-<span class="co">#&gt;  6 3     B-cells           351</span>
-<span class="co">#&gt;  7 4     Monocytes         339</span>
-<span class="co">#&gt;  8 5     Smooth muscle      21</span>
-<span class="co">#&gt;  9 6     Skeletal muscle   477</span>
-<span class="co">#&gt; 10 7     NK cells          256</span>
-<span class="co">#&gt; 11 8     Neutrophils        74</span>
-<span class="co">#&gt; 12 9     Macrophages        41</span></code></pre></div>
+<span class="co">#&gt;  1 1     NK cells          460</span>
+<span class="co">#&gt;  2 10    B-cells            14</span>
+<span class="co">#&gt;  3 11    Monocytes          26</span>
+<span class="co">#&gt;  4 2     Skeletal muscle   781</span>
+<span class="co">#&gt;  5 3     B-cells           367</span>
+<span class="co">#&gt;  6 4     Monocytes         339</span>
+<span class="co">#&gt;  7 5     Fibroblasts       500</span>
+<span class="co">#&gt;  8 6     NK cells          276</span>
+<span class="co">#&gt;  9 7     Smooth muscle      21</span>
+<span class="co">#&gt; 10 8     Neutrophils        74</span>
+<span class="co">#&gt; 11 9     Macrophages        41</span></code></pre></div>
 </div>
 </div>
 <div id="pseudobulk-analyses" class="section level2">
